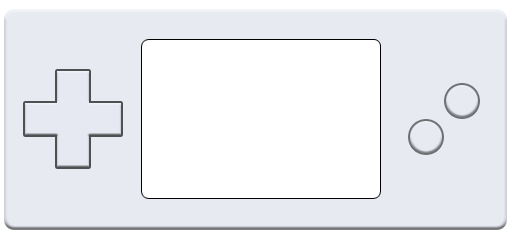
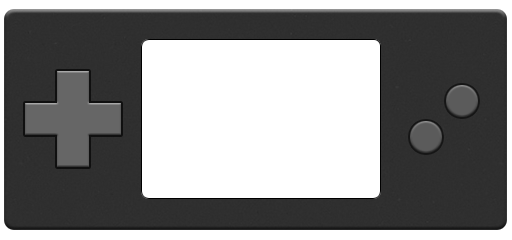
Improved layout

diff --git a/src/index.html b/src/index.html
@@ -1,7 +1,7 @@
 <html>
 
   <head>
-    <title>Phaser Test</title>
+    <title>Tile Based Game Prototype</title>
     <link rel="stylesheet" type="text/css" href="assets/styles/styles.css">
   </head>
 
@@ -16,19 +16,19 @@
       <button
         id="dpad-up"
         class="device-button"
-      >↑</button>
+      >▲</button>
       <button
         id="dpad-right"
         class="device-button"
-      >→</button>
+      >▶</button>
       <button
         id="dpad-down"
         class="device-button"
-      >↓</button>
+      >▼</button>
       <button
         id="dpad-left"
         class="device-button"
-      >←</button>
+      >◀</button>
       <!-- 
       <button
         id="a-button"

diff --git a/src/assets/styles/styles.css b/src/assets/styles/styles.css
@@ -30,8 +30,11 @@ body {
   width: 32px;
   height: 32px;
   border: 0;
+  opacity: 1;
+  background: none;
+  font-weight: bold;
+  color: #333;
   cursor: pointer;
-  opacity: 0;
 }
 
 #dpad-up {
